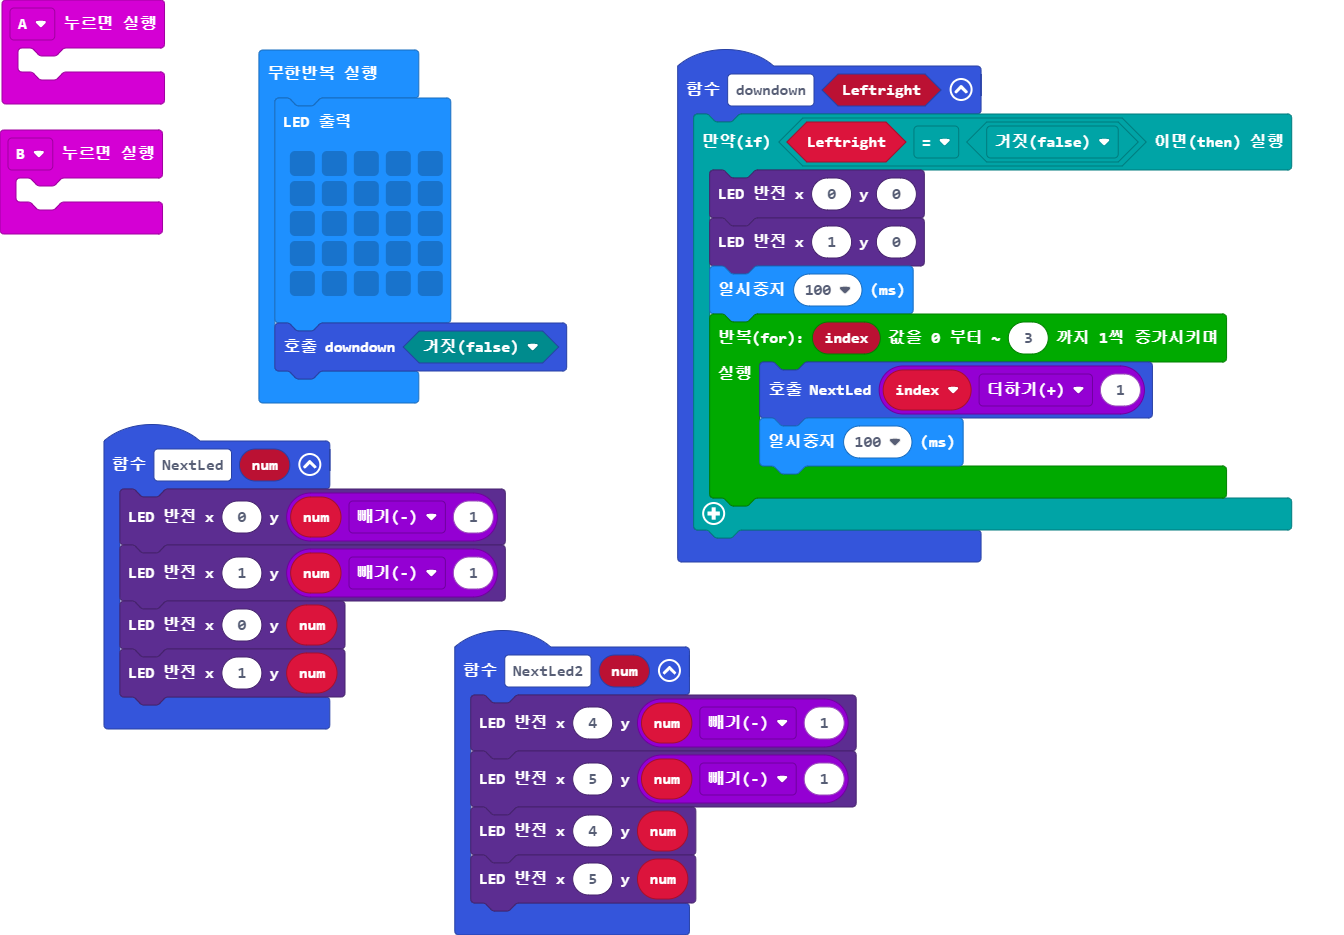
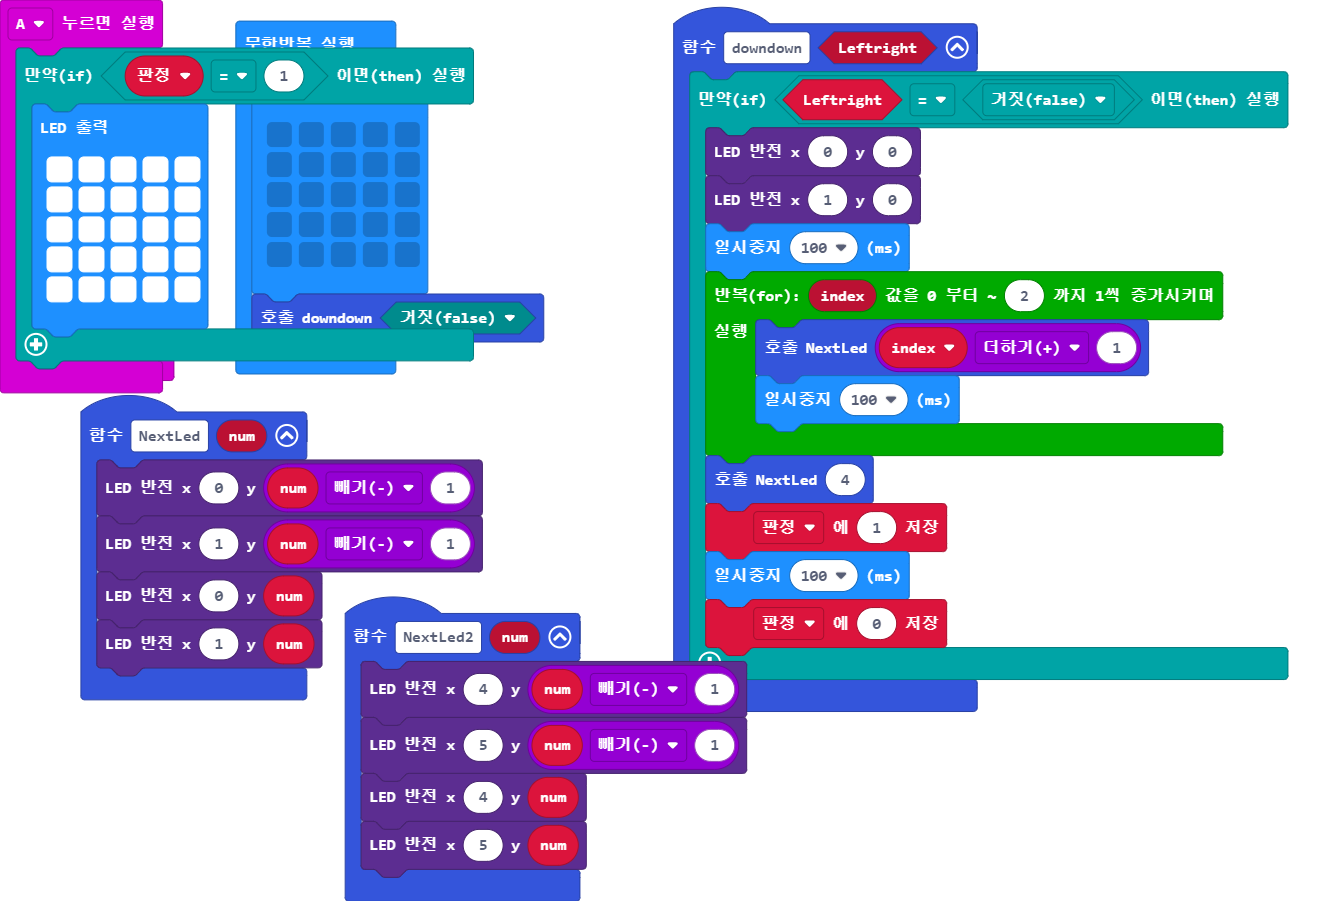
판정작성중

diff --git a/main.ts b/main.ts
@@ -1,16 +1,29 @@
+let 판정 = 0
 function downdown (Leftright: boolean) {
     if (Leftright == false) {
         led.toggle(0, 0)
         led.toggle(1, 0)
         basic.pause(100)
-        for (let index = 0; index <= 3; index++) {
+        for (let index = 0; index <= 2; index++) {
             NextLed(index + 1)
             basic.pause(100)
         }
+        NextLed(4)
+        판정 = 1
+        basic.pause(100)
+        판정 = 0
     }
 }
 input.onButtonPressed(Button.A, function () {
-	
+    if (판정 == 1) {
+        basic.showLeds(`
+            # # # # #
+            # # # # #
+            # # # # #
+            # # # # #
+            # # # # #
+            `)
+    }
 })
 function NextLed2 (num: number) {
     led.toggle(4, num - 1)
